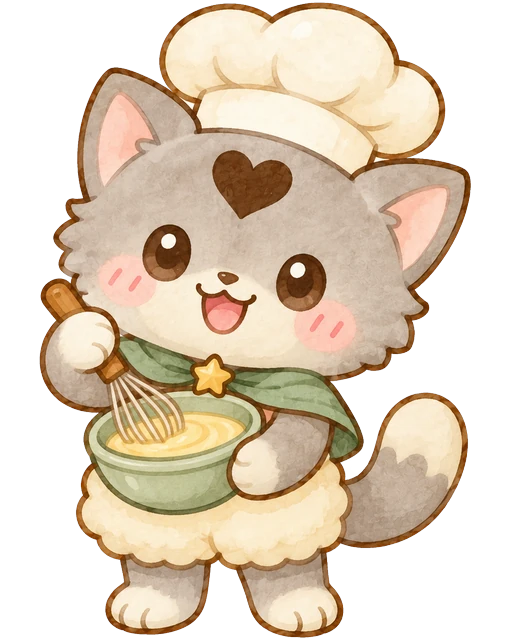
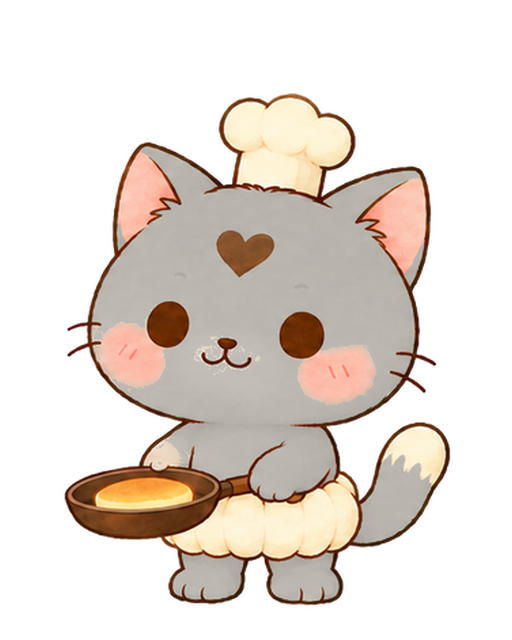
Use new chubby chef idle for Cafe static
Point cafe chef idle at shared zxm_chef_01 and replace
cafe_mascot_chef.webp so idle matches the cook cycle.

diff --git a/src/games/cafeOrder.js b/src/games/cafeOrder.js
@@ -7,7 +7,7 @@ const ART = {
   patienceHeart: '/art/games/cafe/cafe_patience_heart.webp',
   ingredientArt: (id) => `/art/games/cafe/cafe_ing_${id}.webp`,
   dishArt: (id) => `/art/games/cafe/cafe_dish_${id}.webp`,
-  chefIdle: '/art/games/cafe/cafe_mascot_chef.webp',
+  chefIdle: '/art/games/anim/zxm_chef_01.webp',
   chefCook: [1, 2, 3, 4].map((frame) => `/art/games/anim/zxm_chef_0${frame}.webp`),
   customers: {
     rabbit: {
